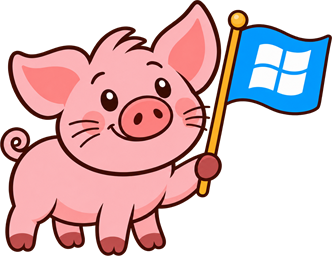
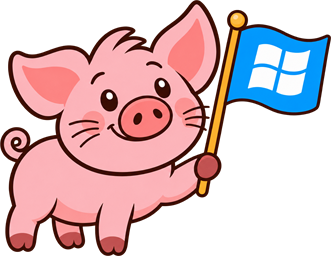
Animated 'Cerdito con bandera': paw swings the flag, cloth flutters on hover
- Start icon animation layers next to the icon: <name>.base.png (static),
  <name>.wave.png (flutters from its left edge) and optional <name>.arm.png
  (rotates from its left-most point, carrying the wave layer)
- Layers for 'Cerdito con bandera' (icon regenerated from art/ so the
  layers line up); body under the paw filled in so no gap shows
- Original artwork kept in art/
- Docs: README, HANDOFF and NOTICE

diff --git a/WorkWindowsBar/Controls/StartButton.xaml b/WorkWindowsBar/Controls/StartButton.xaml
@@ -21,6 +21,30 @@
                 </Grid.ColumnDefinitions>
                 <Image Grid.Column="0"
                        Style="{DynamicResource StartIcon}" />
+                <!-- WorkWindowsBar: optional animated layers over the icon. The group (arm + flag)
+                     swings from the shoulder; inside it the flag cloth flutters on its own. All layers
+                     share the icon's style/size so they line up with the base image. -->
+                <Grid x:Name="StartIconArmGroup"
+                      Grid.Column="0"
+                      RenderTransformOrigin="{DynamicResource StartIconArmOrigin}">
+                    <Grid.RenderTransform>
+                        <RotateTransform x:Name="StartIconArmRotate" />
+                    </Grid.RenderTransform>
+                    <Image x:Name="StartIconArm"
+                           Style="{DynamicResource StartIcon}"
+                           Source="{DynamicResource StartIconArmImage}" />
+                    <Image x:Name="StartIconWave"
+                           Style="{DynamicResource StartIcon}"
+                           Source="{DynamicResource StartIconWaveImage}"
+                           RenderTransformOrigin="{DynamicResource StartIconWaveOrigin}">
+                        <Image.RenderTransform>
+                            <TransformGroup>
+                                <SkewTransform x:Name="StartIconWaveSkew" />
+                                <ScaleTransform x:Name="StartIconWaveScale" />
+                            </TransformGroup>
+                        </Image.RenderTransform>
+                    </Image>
+                </Grid>
                 <TextBlock Grid.Column="1"
                            Style="{DynamicResource StartLabel}" />
             </Grid>

diff --git a/WorkWindowsBar/Utilities/DictionaryManager.cs b/WorkWindowsBar/Utilities/DictionaryManager.cs
@@ -67,7 +67,73 @@ namespace RetroBar.Utilities
             var icons = new List<string>();
             icons.AddFrom(BuiltInStartIconDir, START_ICON_EXT);
             icons.AddFrom(START_ICON_FOLDER.InLocalAppData(), START_ICON_EXT, true);
+            // "<name>.base.png" / "<name>.wave.png" are animation layers of "<name>.png", not icons.
+            icons.RemoveAll(i => i.EndsWith(".base", StringComparison.OrdinalIgnoreCase) ||
+                                 i.EndsWith(".wave", StringComparison.OrdinalIgnoreCase) ||
+                                 i.EndsWith(".arm", StringComparison.OrdinalIgnoreCase));
             return icons;
+        }
+
+        private const string START_ICON_WAVE_KEY = "StartIconWaveImage";
+        private const string START_ICON_WAVE_ORIGIN_KEY = "StartIconWaveOrigin";
+        private const string START_ICON_ARM_KEY = "StartIconArmImage";
+        private const string START_ICON_ARM_ORIGIN_KEY = "StartIconArmOrigin";
+
+        // Left-most visible pixel of the arm layer (its shoulder), as a 0..1 RenderTransformOrigin.
+        private static Point GetArmOrigin(System.Windows.Media.Imaging.BitmapSource arm)
+        {
+            var converted = new System.Windows.Media.Imaging.FormatConvertedBitmap(arm, System.Windows.Media.PixelFormats.Bgra32, null, 0);
+            int w = converted.PixelWidth, h = converted.PixelHeight, stride = w * 4;
+            byte[] px = new byte[stride * h];
+            converted.CopyPixels(px, stride, 0);
+            for (int x = 0; x < w; x++)
+            {
+                int sumY = 0, count = 0;
+                for (int y = 0; y < h; y++)
+                {
+                    if (px[y * stride + x * 4 + 3] > 32) { sumY += y; count++; }
+                }
+                if (count > 0)
+                {
+                    return new Point((double)x / w, (double)sumY / count / h);
+                }
+            }
+            return new Point(0.5, 0.5);
+        }
+
+        private static System.Windows.Media.Imaging.BitmapImage LoadImage(string path)
+        {
+            var image = new System.Windows.Media.Imaging.BitmapImage();
+            image.BeginInit();
+            image.CacheOption = System.Windows.Media.Imaging.BitmapCacheOption.OnLoad;
+            image.UriSource = new Uri(path, UriKind.Absolute);
+            image.EndInit();
+            image.Freeze();
+            return image;
+        }
+
+        // Left-middle of the wave layer's visible pixels, as a 0..1 RenderTransformOrigin, so the
+        // cloth flutters around the point where it is attached to the pole.
+        private static Point GetWaveOrigin(System.Windows.Media.Imaging.BitmapSource wave)
+        {
+            var converted = new System.Windows.Media.Imaging.FormatConvertedBitmap(wave, System.Windows.Media.PixelFormats.Bgra32, null, 0);
+            int w = converted.PixelWidth, h = converted.PixelHeight, stride = w * 4;
+            byte[] px = new byte[stride * h];
+            converted.CopyPixels(px, stride, 0);
+            int minX = w, minY = h, maxY = -1;
+            for (int y = 0; y < h; y++)
+            {
+                for (int x = 0; x < w; x++)
+                {
+                    if (px[y * stride + x * 4 + 3] > 32)
+                    {
+                        if (x < minX) minX = x;
+                        if (y < minY) minY = y;
+                        if (y > maxY) maxY = y;
+                    }
+                }
+            }
+            return maxY < 0 ? new Point(0.5, 0.5) : new Point((double)minX / w, (minY + maxY) / 2.0 / h);
         }
 
         public static string ResolveStartIcon(string value)
@@ -102,18 +168,41 @@ namespace RetroBar.Utilities
 
             // Drop any previous size override so the theme's StartIcon style is the base again.
             resources.Remove(START_ICON_STYLE_KEY);
+            resources.Remove(START_ICON_WAVE_KEY);
+            resources.Remove(START_ICON_WAVE_ORIGIN_KEY);
+            resources.Remove(START_ICON_ARM_KEY);
+            resources.Remove(START_ICON_ARM_ORIGIN_KEY);
 
             if (path != null)
             {
                 try
                 {
-                    var image = new System.Windows.Media.Imaging.BitmapImage();
-                    image.BeginInit();
-                    image.CacheOption = System.Windows.Media.Imaging.BitmapCacheOption.OnLoad;
-                    image.UriSource = new Uri(path, UriKind.Absolute);
-                    image.EndInit();
-                    image.Freeze();
-                    resources[START_ICON_KEY] = image;
+                    // Optional animation layers next to the icon: "<name>.base.png" (icon without the
+                    // moving part) + "<name>.wave.png" (only the moving part, same canvas size).
+                    string dir = Path.GetDirectoryName(path);
+                    string name = Path.GetFileNameWithoutExtension(path);
+                    string basePath = Path.Combine(dir, name + ".base.png");
+                    string wavePath = Path.Combine(dir, name + ".wave.png");
+                    bool hasWave = File.Exists(basePath) && File.Exists(wavePath);
+
+                    resources[START_ICON_KEY] = LoadImage(hasWave ? basePath : path);
+
+                    if (hasWave)
+                    {
+                        var wave = LoadImage(wavePath);
+                        resources[START_ICON_WAVE_KEY] = wave;
+                        resources[START_ICON_WAVE_ORIGIN_KEY] = GetWaveOrigin(wave);
+
+                        // Optional "<name>.arm.png": the part that swings from its shoulder (left-most
+                        // point), carrying the wave layer with it.
+                        string armPath = Path.Combine(dir, name + ".arm.png");
+                        if (File.Exists(armPath))
+                        {
+                            var arm = LoadImage(armPath);
+                            resources[START_ICON_ARM_KEY] = arm;
+                            resources[START_ICON_ARM_ORIGIN_KEY] = GetArmOrigin(arm);
+                        }
+                    }
 
                     double size = Settings.Instance.CustomStartIconSize;
                     if (size > 0)

diff --git a/WorkWindowsBar/Controls/StartButton.xaml.cs b/WorkWindowsBar/Controls/StartButton.xaml.cs
@@ -88,8 +88,74 @@ namespace RetroBar.Controls
             return new[] { new CustomPopupPlacement(new Point(x, y), PopupPrimaryAxis.Horizontal) };
         }
 
+        // Flag flutter: the wave layer skews up/down around its pole attachment with a slight
+        // horizontal squeeze, looping while hovered.
+        private void StartWave()
+        {
+            if (StartIconWave.Source == null)
+            {
+                return;
+            }
+
+            var skew = new System.Windows.Media.Animation.DoubleAnimationUsingKeyFrames
+            {
+                Duration = TimeSpan.FromMilliseconds(1100),
+                RepeatBehavior = System.Windows.Media.Animation.RepeatBehavior.Forever
+            };
+            double[] angles = { 0, -9, 6, -6, 4, 0 };
+            for (int i = 0; i < angles.Length; i++)
+            {
+                skew.KeyFrames.Add(new System.Windows.Media.Animation.EasingDoubleKeyFrame(
+                    angles[i],
+                    System.Windows.Media.Animation.KeyTime.FromTimeSpan(TimeSpan.FromMilliseconds(1100.0 * i / (angles.Length - 1))),
+                    new System.Windows.Media.Animation.SineEase { EasingMode = System.Windows.Media.Animation.EasingMode.EaseInOut }));
+            }
+
+            var squeeze = new System.Windows.Media.Animation.DoubleAnimation(1, 0.92, TimeSpan.FromMilliseconds(275))
+            {
+                AutoReverse = true,
+                RepeatBehavior = System.Windows.Media.Animation.RepeatBehavior.Forever,
+                EasingFunction = new System.Windows.Media.Animation.SineEase { EasingMode = System.Windows.Media.Animation.EasingMode.EaseInOut }
+            };
+
+            StartIconWaveSkew.BeginAnimation(SkewTransform.AngleYProperty, skew);
+            StartIconWaveScale.BeginAnimation(ScaleTransform.ScaleXProperty, squeeze);
+
+            // Arm: waves the flag from the shoulder (negative = raises it), slower than the cloth.
+            if (StartIconArm.Source != null)
+            {
+                var swing = new System.Windows.Media.Animation.DoubleAnimationUsingKeyFrames
+                {
+                    Duration = TimeSpan.FromMilliseconds(1400),
+                    RepeatBehavior = System.Windows.Media.Animation.RepeatBehavior.Forever
+                };
+                double[] arm = { 0, -7, 2, -5, 1, 0 };
+                for (int i = 0; i < arm.Length; i++)
+                {
+                    swing.KeyFrames.Add(new System.Windows.Media.Animation.EasingDoubleKeyFrame(
+                        arm[i],
+                        System.Windows.Media.Animation.KeyTime.FromTimeSpan(TimeSpan.FromMilliseconds(1400.0 * i / (arm.Length - 1))),
+                        new System.Windows.Media.Animation.SineEase { EasingMode = System.Windows.Media.Animation.EasingMode.EaseInOut }));
+                }
+                StartIconArmRotate.BeginAnimation(RotateTransform.AngleProperty, swing);
+            }
+        }
+
+        private void StopWave()
+        {
+            // Settle back smoothly from wherever the flag is.
+            var settle = new System.Windows.Media.Animation.DoubleAnimation(0, TimeSpan.FromMilliseconds(250));
+            var unsqueeze = new System.Windows.Media.Animation.DoubleAnimation(1, TimeSpan.FromMilliseconds(250));
+            StartIconWaveSkew.BeginAnimation(SkewTransform.AngleYProperty, settle);
+            StartIconWaveScale.BeginAnimation(ScaleTransform.ScaleXProperty, unsqueeze);
+            StartIconArmRotate.BeginAnimation(RotateTransform.AngleProperty,
+                new System.Windows.Media.Animation.DoubleAnimation(0, TimeSpan.FromMilliseconds(250)));
+        }
+
         private void Start_OnMouseEnter(object sender, MouseEventArgs e)
         {
+            StartWave();
+
             string text = Settings.Instance.StartIconHoverText;
             bool enabled = !string.IsNullOrWhiteSpace(text);
 
@@ -118,6 +184,7 @@ namespace RetroBar.Controls
         private void Start_OnMouseLeave(object sender, MouseEventArgs e)
         {
             SpeechBubble.IsOpen = false;
+            StopWave();
         }
 
         #endregion

diff --git a/HANDOFF.md b/HANDOFF.md
@@ -55,6 +55,8 @@ NOTICE                          atribución + lista de cambios (requerido por Ap
 | Globito de Inicio | `Controls/StartButton.xaml(.cs)` (`SpeechBubble` Popup, `PlaceSpeechBubble`, `Start_OnMouseEnter/Leave`), `Settings.StartIconHoverText` | Popup con `AllowsTransparency`, centrado sobre el botón (debajo y sin colita si la barra está arriba), con animación de escala y opacidad al aparecer. Mientras hay texto, desactiva el ToolTip normal del botón. Se cierra al salir el mouse o al hacer clic. |
 | Texto | `Settings.AllowFontSmoothing` (por defecto `true`) | RetroBar lo trae en `false` (texto *aliased*, look retro), que con el tema moderno se veía pixelado. |
 | Cierre rápido | `Taskbar.xaml` (`QuickCloseButton`), `Taskbar.xaml.cs` (`QuickCloseButton_OnClick`, arm/disarm), `Controls/TaskList.xaml.cs` (`GetVisibleWindows`) | Dos clics (el primero "arma" el botón 3 s, en rojo vía `Tag="armed"`). Envía `WM_SYSCOMMAND/SC_CLOSE` con `PostMessage` a todas las ventanas visibles de la barra a la vez. No usa `ApplicationWindow.Close()` de ManagedShell porque es secuencial (trae cada ventana al frente + `SendMessageTimeout` de 200 ms). |
+| Icono animado | `Utilities/DictionaryManager.cs` (capas `.base/.wave/.arm`, `GetWaveOrigin`, `GetArmOrigin`), `Controls/StartButton.xaml(.cs)` (`StartIconArmGroup`, `StartWave/StopWave`) | Con capas presentes, `StartIconImage` = `.base`; el grupo arm+wave rota desde el punto más a la izquierda de `.arm` (hombro) y `.wave` hace skew/scale desde su borde izquierdo. Las capas de "Cerdito con bandera" se generaron separando la tela por color (azul, a la derecha del palo amarillo) y la pata con un polígono + el palo por color; el cuerpo bajo la pata se rellenó con su rosa y contorno. |
+| Fuente | `Utilities/Settings.cs` | `AllowFontSmoothing` = `true` por defecto (upstream lo deja en `false` → texto aliased). |
 | Updates | `Utilities/Updater.cs` | Desactivado (`UpdateFeedAvailable = false`), porque el feed de upstream ofrecería instalar RetroBar encima. |
 | Build | `Directory.Build.props` | Se quitó Nerdbank.GitVersioning (requería repo git al compilar). La versión está fija en `<Version>`. |
 | Eliminado | `installer.iss`, workflows de upstream, `version.json`, `retrobar-preview.png` | Eran específicos de los releases de RetroBar. |

diff --git a/README.md b/README.md
@@ -74,6 +74,11 @@ En *Propiedades* → *Icono de Inicio* puedes elegir entre **Del tema** (el orig
 - Para agregar los tuyos, pon un `.png` con fondo transparente en `%LOCALAPPDATA%\WorkWindowsBar\StartIcons` y aparecerá en la lista con su nombre.
 - El icono se ajusta por alto (`CustomStartIconSize`) y conserva su proporción, así que también sirven imágenes anchas.
 - **Globito de diálogo:** si pones un texto en `StartIconHoverText` (por ejemplo `Miau!`), al pasar el mouse por Inicio aparece un globo de cómic con ese texto.
+- **Animación al pasar el mouse:** "Cerdito con bandera" mueve la patita y ondea la bandera. Para animar tus propios iconos, pon junto a `<nombre>.png` estas capas del mismo tamaño:
+  - `<nombre>.base.png`: el dibujo sin las partes que se mueven.
+  - `<nombre>.wave.png`: lo que ondea (por ejemplo una bandera); se mueve desde su borde izquierdo.
+  - `<nombre>.arm.png` (opcional): lo que gira (por ejemplo un brazo con el palo), desde su punto más a la izquierda; lleva consigo la capa `.wave`.
+- La imagen original del cerdito con bandera está en `art/`.
 
 ## Temas
 
